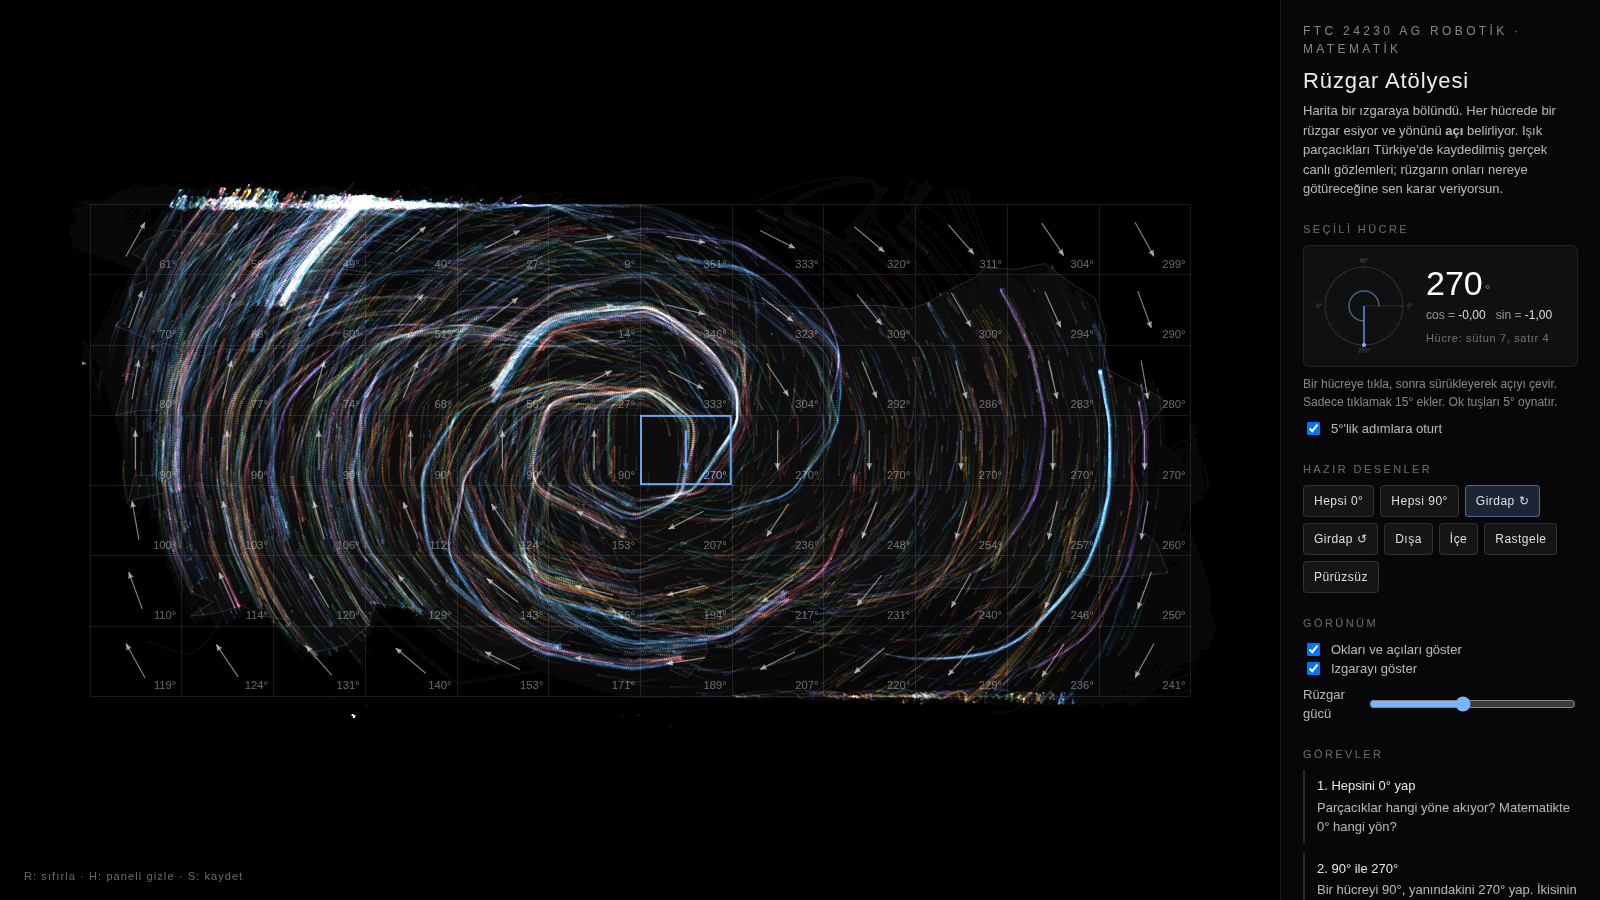
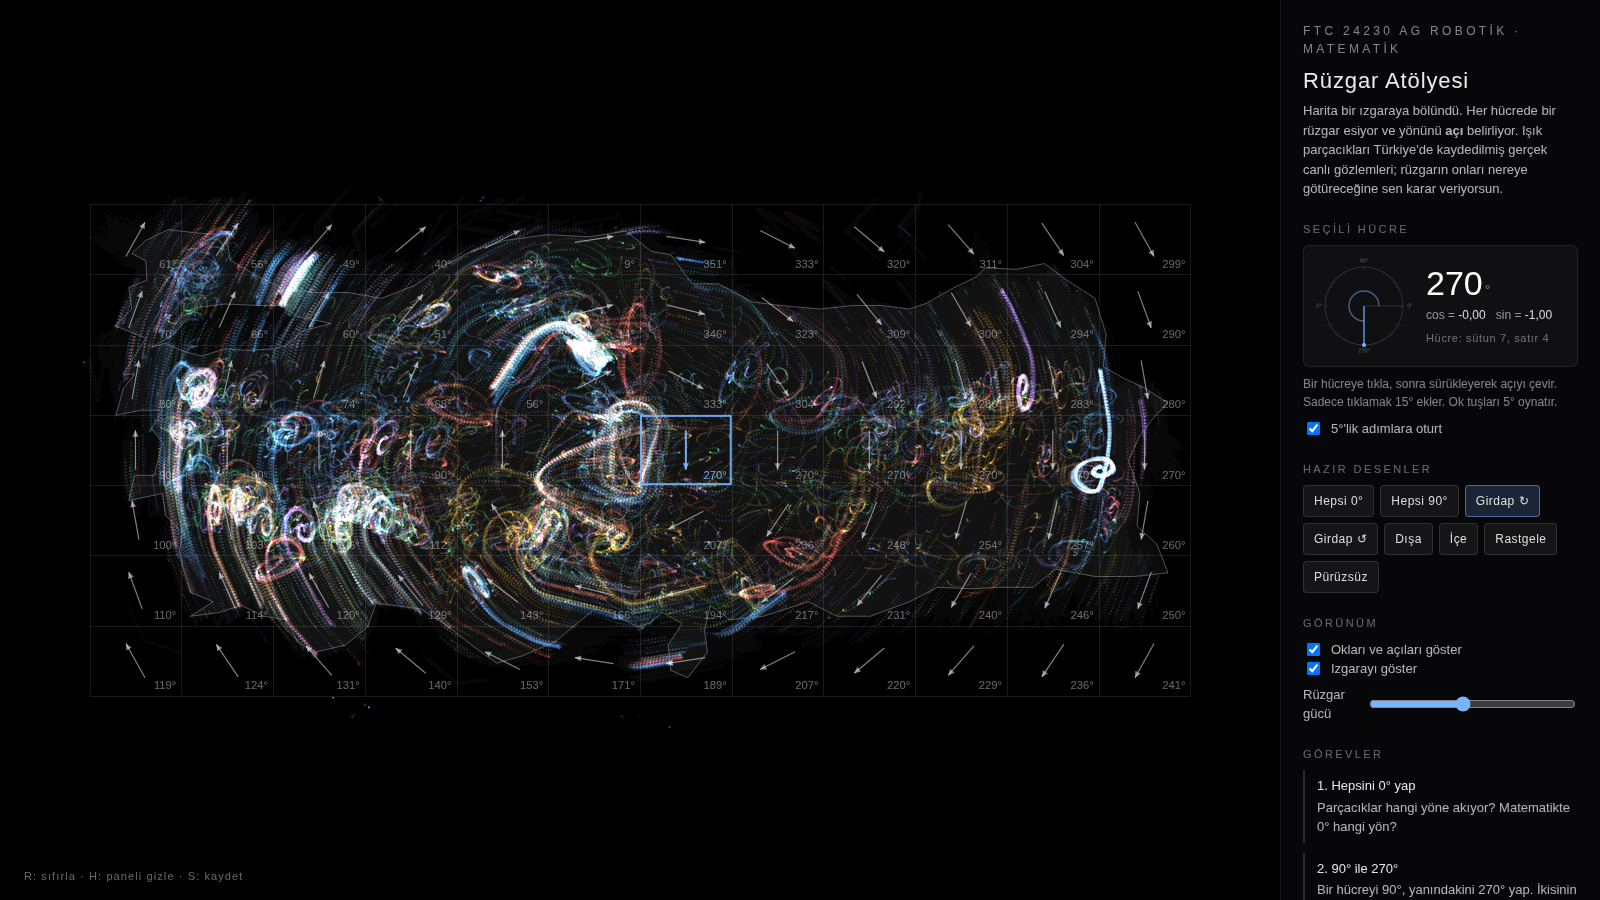
Rüzgar Atölyesi: Türkiye silueti korunur
Parçacıklar rüzgara kapılıp kıyı dışına akıyor ve harita eriyordu.
Eve dönüş kuvveti artırıldı, ömür kısaltıldı; yarım çözünürlüklü kara
maskesiyle denize çıkan parçacık kıyıda yumuşakça söner. Kıyı çizgisi ve
kara dolgusu belirginleştirildi, parlaklık hafif düşürüldü.

Claude-Session: https://claude.ai/code/session_01NWLFDSPJVWPhZJrHPJMooR

Changed region(s): [[0.0625, 0.1867, 0.7188, 0.7778]]

diff --git a/matematik/ruzgar-atolyesi/sketch.js b/matematik/ruzgar-atolyesi/sketch.js
@@ -13,10 +13,11 @@ const CONFIG = {
   cols: 12, rows: 7,        // ızgara
   particles: 9000,
   force: 0.45,              // rüzgar gücü (panelden ayarlanır)
-  homePull: 0.0012,         // doğduğu yere zayıf dönüş; harita dağılmasın
+  homePull: 0.0045,         // doğduğu yere dönüş; rüzgar şekli büker ama Türkiye silueti kalır
+  coastFade: 10,            // karanın dışına çıkan parçacığın kare başına ek ömür kaybı (kıyıda yumuşak sönme)
   drag: 0.96, maxSpeed: 2.2,
-  lifeMin: 80, lifeMax: 220,
-  fade: 0.06, alpha: 0.22, size: 1.6,
+  lifeMin: 70, lifeMax: 170,
+  fade: 0.06, alpha: 0.18, size: 1.6,
   classBalance: 0.7,
   seed: 1,
 };
@@ -39,6 +40,7 @@ let selected = -1, dragging = false, dragMoved = false;
 // projeksiyon
 const proj = { lonMin: 25.6, lonMax: 45.2, latMin: 35.6, latMax: 42.4, k: Math.cos(39 * Math.PI / 180) };
 let ctx, ui = {}, panelVisible = true;
+let mask = null, maskW = 0, maskH = 0;   // kara maskesi (yarım çözünürlük): parçacık denizde mi?
 const enabled = [true, true, true, true, true];
 const fmt = new Intl.NumberFormat('tr-TR', { minimumFractionDigits: 2, maximumFractionDigits: 2 });
 
@@ -80,6 +82,29 @@ function layout() {
   grid.cw = grid.w / CONFIG.cols; grid.ch = grid.h / CONFIG.rows;
   for (let i = 0; i < N; i++) { oX[i] = toX(oLon[i]); oY[i] = toY(oLat[i]); }
   drawMapLayer();
+  buildMask();
+}
+
+// Türkiye dış hattını yarım çözünürlüklü bir tuvale boyayıp piksel maskesi çıkarır.
+// Parçacık başına çokgen testi yerine tek bir dizi bakışı: hızlı.
+function buildMask() {
+  const O = window.TURKEY_OUTLINE; if (!O) return;
+  maskW = Math.ceil(width / 2); maskH = Math.ceil(height / 2);
+  const c = document.createElement('canvas'); c.width = maskW; c.height = maskH;
+  const g = c.getContext('2d');
+  g.scale(0.5, 0.5);
+  const ring = (r) => { g.beginPath(); r.forEach(([lon, lat], i) => i ? g.lineTo(toX(lon), toY(lat)) : g.moveTo(toX(lon), toY(lat))); g.closePath(); };
+  g.fillStyle = '#fff'; ring(O.outer); g.fill();
+  g.globalCompositeOperation = 'destination-out'; ring(O.marmara); g.fill();
+  const d = g.getImageData(0, 0, maskW, maskH).data;
+  mask = new Uint8Array(maskW * maskH);
+  for (let i = 0; i < mask.length; i++) mask[i] = d[i * 4 + 3] > 0 ? 1 : 0;
+}
+function onLand(x, y) {
+  if (!mask) return true;
+  const mx = x >> 1, my = y >> 1;
+  if (mx < 0 || my < 0 || mx >= maskW || my >= maskH) return false;
+  return mask[my * maskW + mx] === 1;
 }
 const toX = lon => proj.ox + (lon - proj.lonMin) * proj.k * proj.s;
 const toY = lat => proj.oy + (proj.latMax - lat) * proj.s;
@@ -95,8 +120,8 @@ function drawMapLayer() {
     g.beginPath();
     ring.forEach(([lon, lat], i) => i ? g.lineTo(toX(lon), toY(lat)) : g.moveTo(toX(lon), toY(lat)));
     g.closePath();
-    g.fillStyle = land ? 'rgba(255,255,255,0.025)' : '#000'; g.fill();
-    g.strokeStyle = 'rgba(255,255,255,0.14)'; g.stroke();
+    g.fillStyle = land ? 'rgba(255,255,255,0.045)' : '#000'; g.fill();
+    g.strokeStyle = 'rgba(255,255,255,0.30)'; g.stroke();
   }
 }
 
@@ -165,6 +190,8 @@ function draw() {
     if (sp > CONFIG.maxSpeed) { vx *= CONFIG.maxSpeed / sp; vy *= CONFIG.maxSpeed / sp; }
     if (sp < 0.25 && plife[i] > 4) plife[i] -= 3;   // sınırda sıkışan parçacık hızla söner, yığılma azalır
     x += vx * dt; y += vy * dt;
+    // denize çıkan parçacık kıyıda yumuşakça söner: silüet korunur, kenar hafif parlar
+    if (!onLand(x, y)) plife[i] = plife[i] > CONFIG.coastFade ? plife[i] - CONFIG.coastFade : 1;
     // ızgaradan çok uzağa kaçanı öldür
     if (x < grid.x - 60 || x > grid.x + grid.w + 60 || y < grid.y - 60 || y > grid.y + grid.h + 60) { palive[i] = 0; aliveCount--; continue; }
     pvx[i] = vx; pvy[i] = vy; px[i] = x; py[i] = y;
